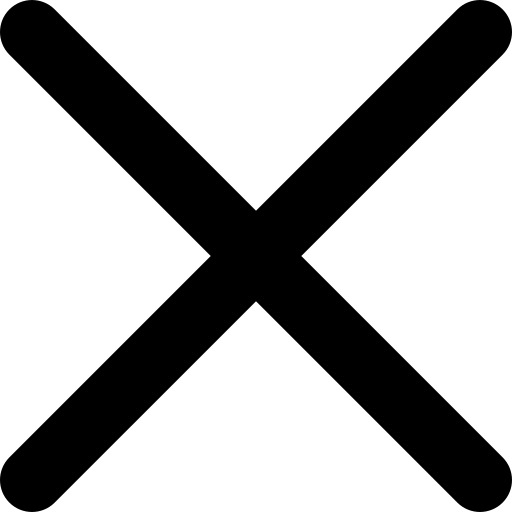
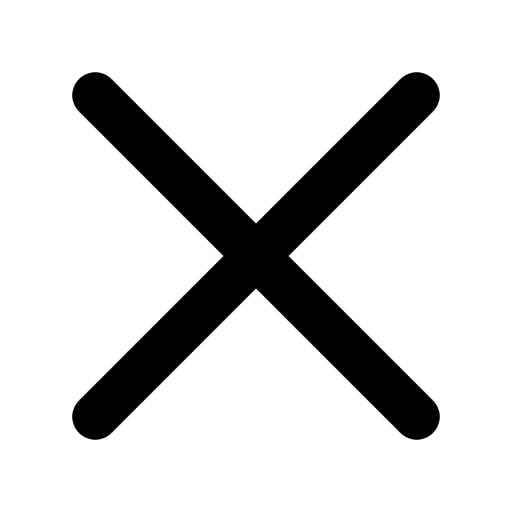
add burger menu

Changed region(s): [[0.0, 0.0, 1.0, 1.0]]

diff --git a/styles/style.css b/styles/style.css
@@ -158,19 +158,17 @@ a:visited {
     color: var(--link-visited-color);
 }
 
-.top-nav-bar {}
-
 .top-nav-bar ul {
     justify-content: center;
     display: flex;
     flex-direction: row;
     overflow: hidden;
     list-style-type: none;
-    height: 100%;
+    height: var(--header-height);
 }
 
 .top-nav-bar ul li {
-    height: 100%;
+    height: var(--header-height);
     background-color: var(--main-second-color);
 }
 
@@ -179,6 +177,8 @@ a:visited {
     color: var(--main-light-color);
     padding: 15px;
     text-decoration: none;
+    height: var(--header-height);
+    box-sizing: border-box;
 }
 
 .top-nav-bar li a:focus,
@@ -191,57 +191,61 @@ a:visited {
     visibility: hidden;
 }
 
-.burger-image-closed {
-    visibility: hidden;
-    position: absolute;
-    width: var(--header-height);
-    height: var(--header-height);
-}
-
+.burger-image-closed,
 .burger-image-opened {
-    visibility: hidden;
+    display: none;
     position: absolute;
     width: var(--header-height);
     height: var(--header-height);
 }
 
-.burger-image-closed img {
-    width: 100%;
-    height: 100%;
-}
-
+.burger-image-closed img,
 .burger-image-opened img {
     width: 100%;
     height: 100%;
 }
 
-@media (max-width: 616px) {
+@media (max-width: 660px) {
     .burger-image-closed {
-        visibility: visible;
-        cursor: pointer;
         display: block;
     }
 
     .burger-image-opened {
-        visibility: hidden;
+        display: none;
     }
 
-    .burger-menu:checked+.burger-image-opened {
-        visibility: hidden;
-    }
-
-    .burger-menu:checked+.burger-image-closed {
-        visibility: visible;
-        cursor: pointer;
+    .burger-menu:checked~.burger-image-opened {
         display: block;
     }
 
-    .burger-menu:checked {
-        visibility: visible;
+    .burger-menu:checked~.burger-image-closed {
+        display: none;
     }
 
     .top-nav-bar {
-        visibility: hidden;
+        display: none;
+    }
+
+    .burger-menu:checked~.top-nav-bar {
+        display: block;
+    }
+
+    .burger-menu:checked~.top-nav-bar ul {
+        display: flex;
+        position: absolute;
+        top: var(--header-height);
+        flex-direction: column;
+        height: calc(100vh - var(--header-height));
+        justify-content: start;
+    }
+
+    .burger-menu:checked~.top-nav-bar ul li {
+        display: flex;
+        flex-direction: row;
+    }
+
+    .burger-menu:checked~.top-nav-bar ul li a {
+        flex: 1;
     }
 }
 

diff --git a/views/about_me.html b/views/about_me.html
@@ -11,6 +11,14 @@
 
 <body class="flex-container">
     <header>
+        <input type="checkbox" id="burger-menu-checkbox" class="burger-menu"
+            title="https://www.flaticon.com/ru/authors/andy-horvath" />
+        <label for="burger-menu-checkbox" class="burger-image-closed">
+            <img src="/media/burger.png" alt="B" title="https://www.flaticon.com/ru/authors/andy-horvath" />
+        </label>
+        <label for="burger-menu-checkbox" class="burger-image-opened">
+            <img src="/media/cross.png" alt="B" title="https://www.flaticon.com/ru/authors/andy-horvath" />
+        </label>
         <nav class="top-nav-bar">
             <ul>
                 <li><a class="nav-link" href="/">Главная</a></li>

diff --git a/views/callback.html b/views/callback.html
@@ -11,6 +11,14 @@
 
 <body class="flex-container">
     <header>
+        <input type="checkbox" id="burger-menu-checkbox" class="burger-menu"
+            title="https://www.flaticon.com/ru/authors/andy-horvath" />
+        <label for="burger-menu-checkbox" class="burger-image-closed">
+            <img src="/media/burger.png" alt="B" title="https://www.flaticon.com/ru/authors/andy-horvath" />
+        </label>
+        <label for="burger-menu-checkbox" class="burger-image-opened">
+            <img src="/media/cross.png" alt="B" title="https://www.flaticon.com/ru/authors/andy-horvath" />
+        </label>
         <nav class="top-nav-bar">
             <ul>
                 <li><a class="nav-link" href="/">Главная</a></li>

diff --git a/views/my_interests.html b/views/my_interests.html
@@ -11,6 +11,14 @@
 
 <body class="flex-container">
     <header>
+        <input type="checkbox" id="burger-menu-checkbox" class="burger-menu"
+            title="https://www.flaticon.com/ru/authors/andy-horvath" />
+        <label for="burger-menu-checkbox" class="burger-image-closed">
+            <img src="/media/burger.png" alt="B" title="https://www.flaticon.com/ru/authors/andy-horvath" />
+        </label>
+        <label for="burger-menu-checkbox" class="burger-image-opened">
+            <img src="/media/cross.png" alt="B" title="https://www.flaticon.com/ru/authors/andy-horvath" />
+        </label>
         <nav class="top-nav-bar">
             <ul>
                 <li><a class="nav-link" href="/">Главная</a></li>

diff --git a/views/not_exist.html b/views/not_exist.html
@@ -11,6 +11,14 @@
 
 <body class="flex-container">
     <header>
+        <input type="checkbox" id="burger-menu-checkbox" class="burger-menu"
+            title="https://www.flaticon.com/ru/authors/andy-horvath" />
+        <label for="burger-menu-checkbox" class="burger-image-closed">
+            <img src="/media/burger.png" alt="B" title="https://www.flaticon.com/ru/authors/andy-horvath" />
+        </label>
+        <label for="burger-menu-checkbox" class="burger-image-opened">
+            <img src="/media/cross.png" alt="B" title="https://www.flaticon.com/ru/authors/andy-horvath" />
+        </label>
         <nav class="top-nav-bar">
             <ul>
                 <li><a class="nav-link" href="/">Главная</a></li>

diff --git a/views/photoalbum.html b/views/photoalbum.html
@@ -11,6 +11,14 @@
 
 <body class="flex-container">
     <header>
+        <input type="checkbox" id="burger-menu-checkbox" class="burger-menu"
+            title="https://www.flaticon.com/ru/authors/andy-horvath" />
+        <label for="burger-menu-checkbox" class="burger-image-closed">
+            <img src="/media/burger.png" alt="B" title="https://www.flaticon.com/ru/authors/andy-horvath" />
+        </label>
+        <label for="burger-menu-checkbox" class="burger-image-opened">
+            <img src="/media/cross.png" alt="B" title="https://www.flaticon.com/ru/authors/andy-horvath" />
+        </label>
         <nav class="top-nav-bar">
             <ul>
                 <li><a class="nav-link" href="/">Главная</a></li>

diff --git a/views/studies.html b/views/studies.html
@@ -11,6 +11,14 @@
 
 <body class="flex-container">
     <header>
+        <input type="checkbox" id="burger-menu-checkbox" class="burger-menu"
+            title="https://www.flaticon.com/ru/authors/andy-horvath" />
+        <label for="burger-menu-checkbox" class="burger-image-closed">
+            <img src="/media/burger.png" alt="B" title="https://www.flaticon.com/ru/authors/andy-horvath" />
+        </label>
+        <label for="burger-menu-checkbox" class="burger-image-opened">
+            <img src="/media/cross.png" alt="B" title="https://www.flaticon.com/ru/authors/andy-horvath" />
+        </label>
         <nav class="top-nav-bar">
             <ul>
                 <li><a class="nav-link" href="/">Главная</a></li>

diff --git a/views/test.html b/views/test.html
@@ -11,6 +11,14 @@
 
 <body class="flex-container">
     <header>
+        <input type="checkbox" id="burger-menu-checkbox" class="burger-menu"
+            title="https://www.flaticon.com/ru/authors/andy-horvath" />
+        <label for="burger-menu-checkbox" class="burger-image-closed">
+            <img src="/media/burger.png" alt="B" title="https://www.flaticon.com/ru/authors/andy-horvath" />
+        </label>
+        <label for="burger-menu-checkbox" class="burger-image-opened">
+            <img src="/media/cross.png" alt="B" title="https://www.flaticon.com/ru/authors/andy-horvath" />
+        </label>
         <nav class="top-nav-bar">
             <ul>
                 <li><a class="nav-link" href="/">Главная</a></li>

diff --git a/views/index.html b/views/index.html
@@ -9,7 +9,7 @@
     <link rel=stylesheet type="text/css" href="/styles/style.css">
 </head>
 
-<body class="flex-containfr">
+<body class="flex-container">
     <header>
         <input type="checkbox" id="burger-menu-checkbox" class="burger-menu"
             title="https://www.flaticon.com/ru/authors/andy-horvath" />
